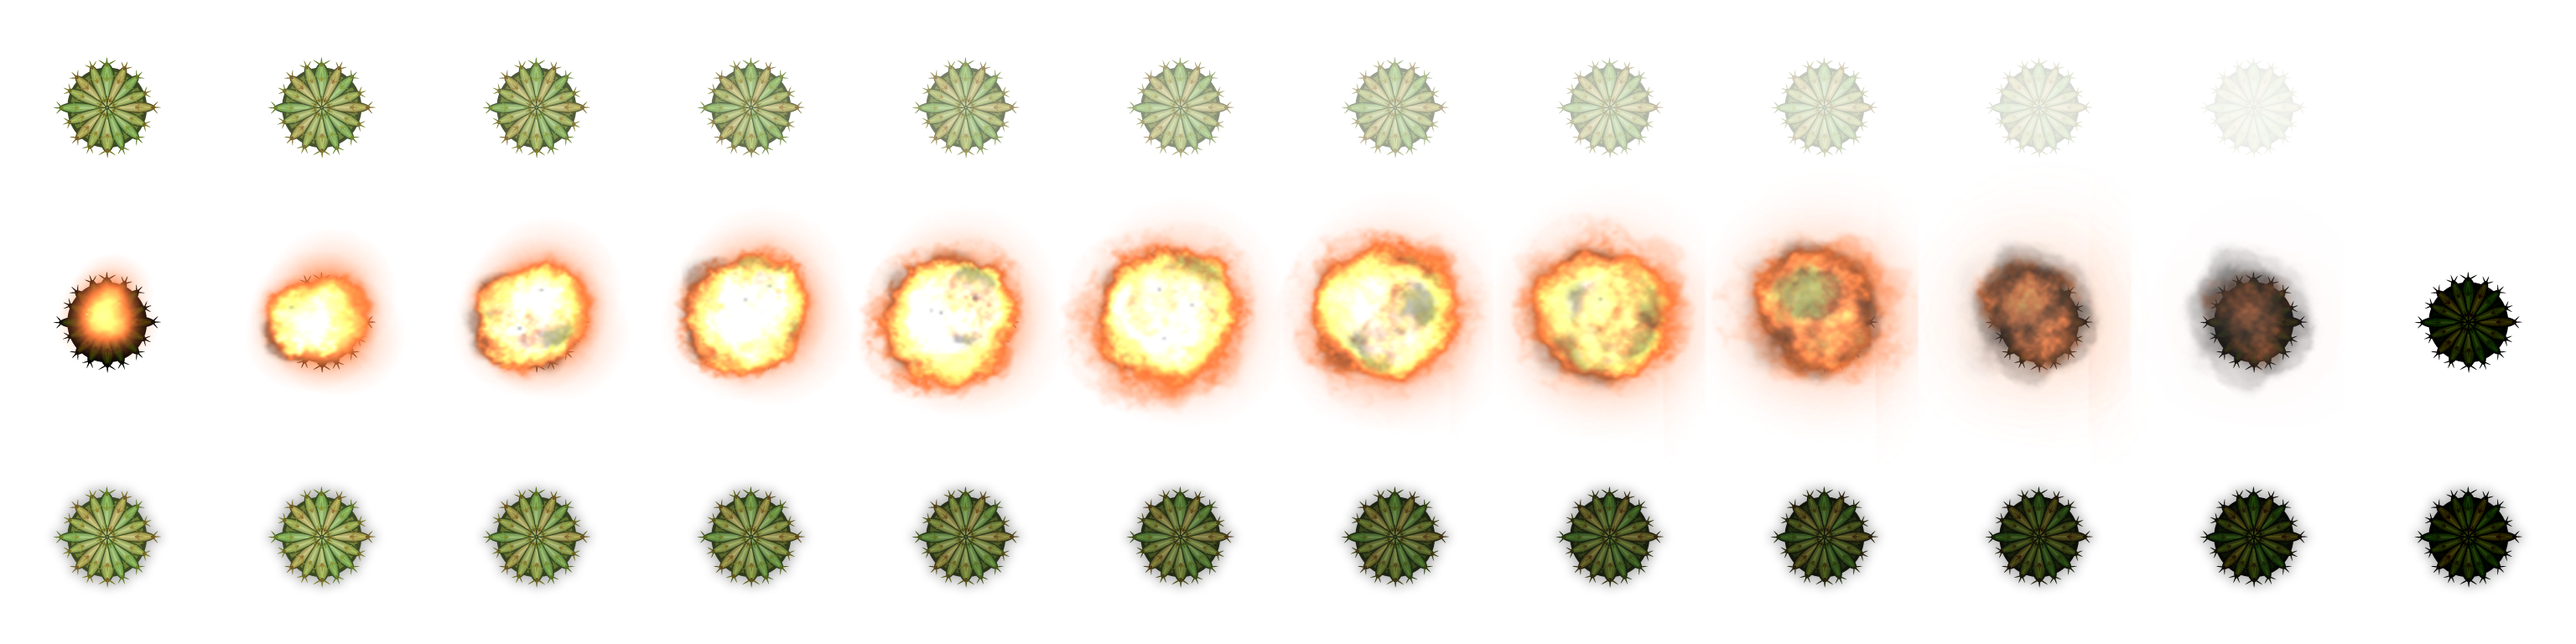
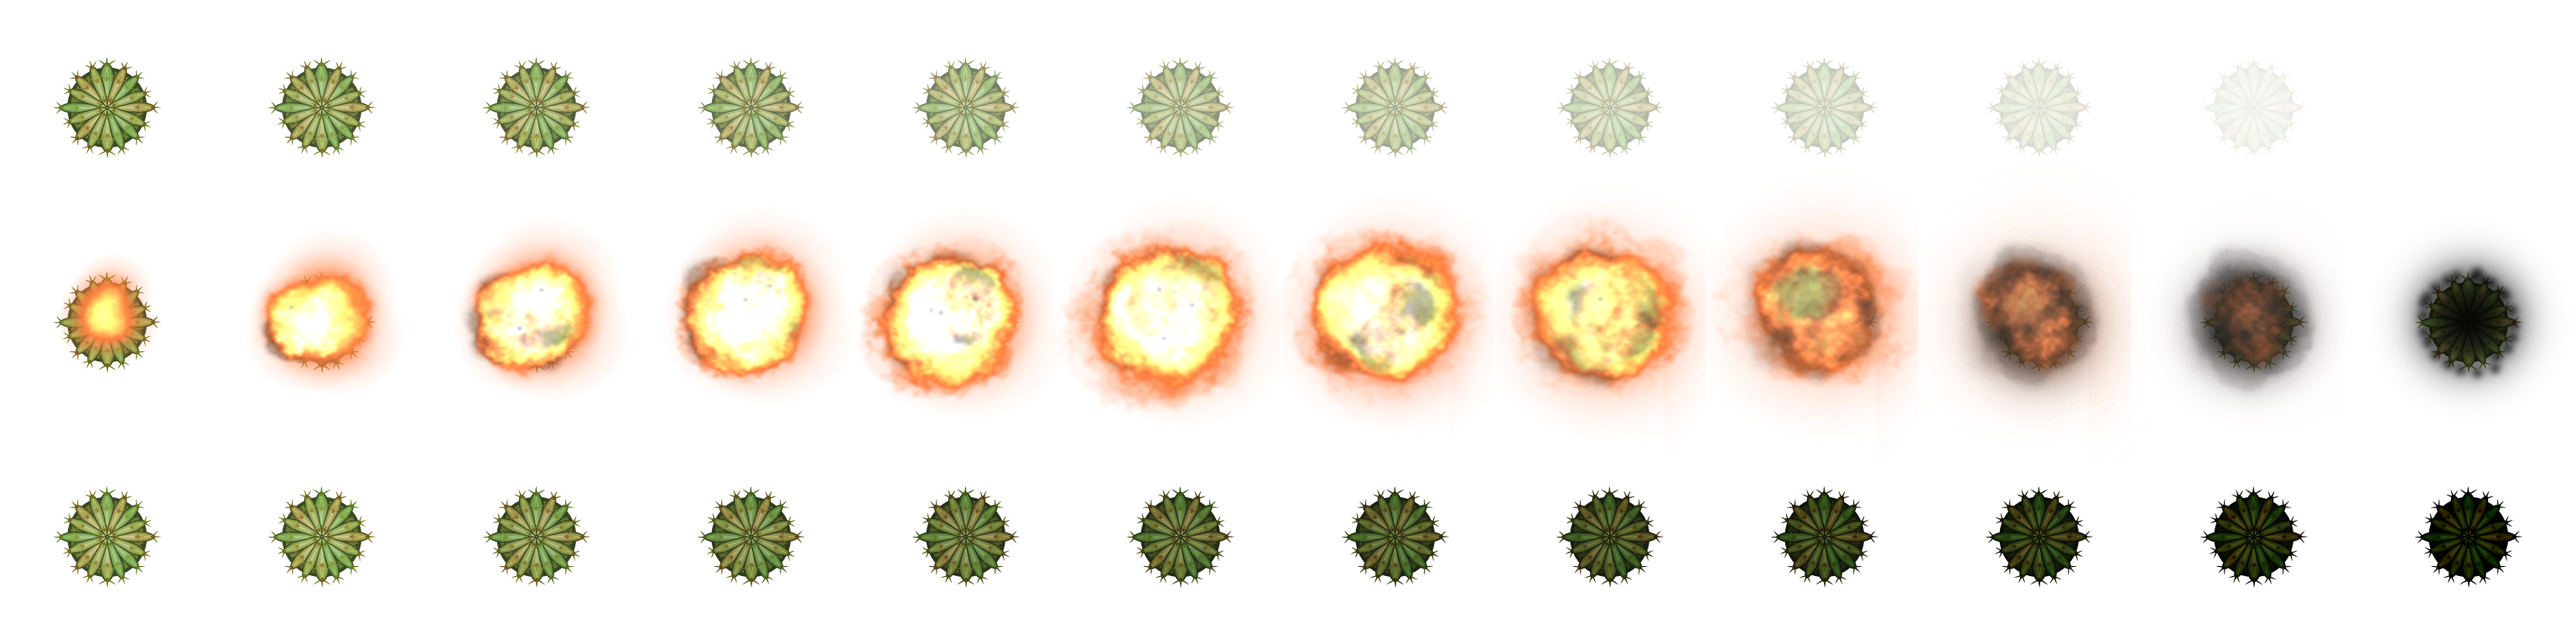
reconstruction death static object; work with point; redaction tanks collision

diff --git a/GameTanks/ready_game_objects.cpp b/GameTanks/ready_game_objects.cpp
@@ -11,7 +11,7 @@ CommonGameObject::CommonGameObject(int const& id_object,
 
 void CommonGameObject::ActionDie() {
 	this->StartAudioAction("destructible");
-	this->StartPlayAnimation(2, 1, 12, 20);
+	this->StartPlayAnimation(2, 1, 12, 30);
 	this->CollisionOff();
 }
 
@@ -154,7 +154,7 @@ Log::Log(int const& id_object, float const& spawn_x, float const& spawn_y)
 		id_object,
 		sf::Vector2f(spawn_x, spawn_y),			//coordinate centr
 		sf::Vector2f(128, 128),					//offset
-		"Data/Static/Log.png",			//texture
+		"Data/Static/Log.png",					//texture
 		25) {									//max life level
 
 	this->AddCollision(new RoundCollision(sf::Vector2f(-33, 0), 15));

diff --git a/GameTanks/Settings.h b/GameTanks/Settings.h
@@ -7,8 +7,8 @@
 static const int GAME_SPEED_CONTROLLER = 1000;
 static const int GAME_TIMER_LIMIT = 1;
 
-static const float SCREEN_RESOLUTION_X = 1024; //float(sf::VideoMode::getDesktopMode().width); //
-static const float SCREEN_RESOLUTION_Y = 768; //float(sf::VideoMode::getDesktopMode().height); //
+static const float SCREEN_RESOLUTION_X = float(sf::VideoMode::getDesktopMode().width); //1024;
+static const float SCREEN_RESOLUTION_Y = float(sf::VideoMode::getDesktopMode().height); //768;
 
 
 //enemy settings:
